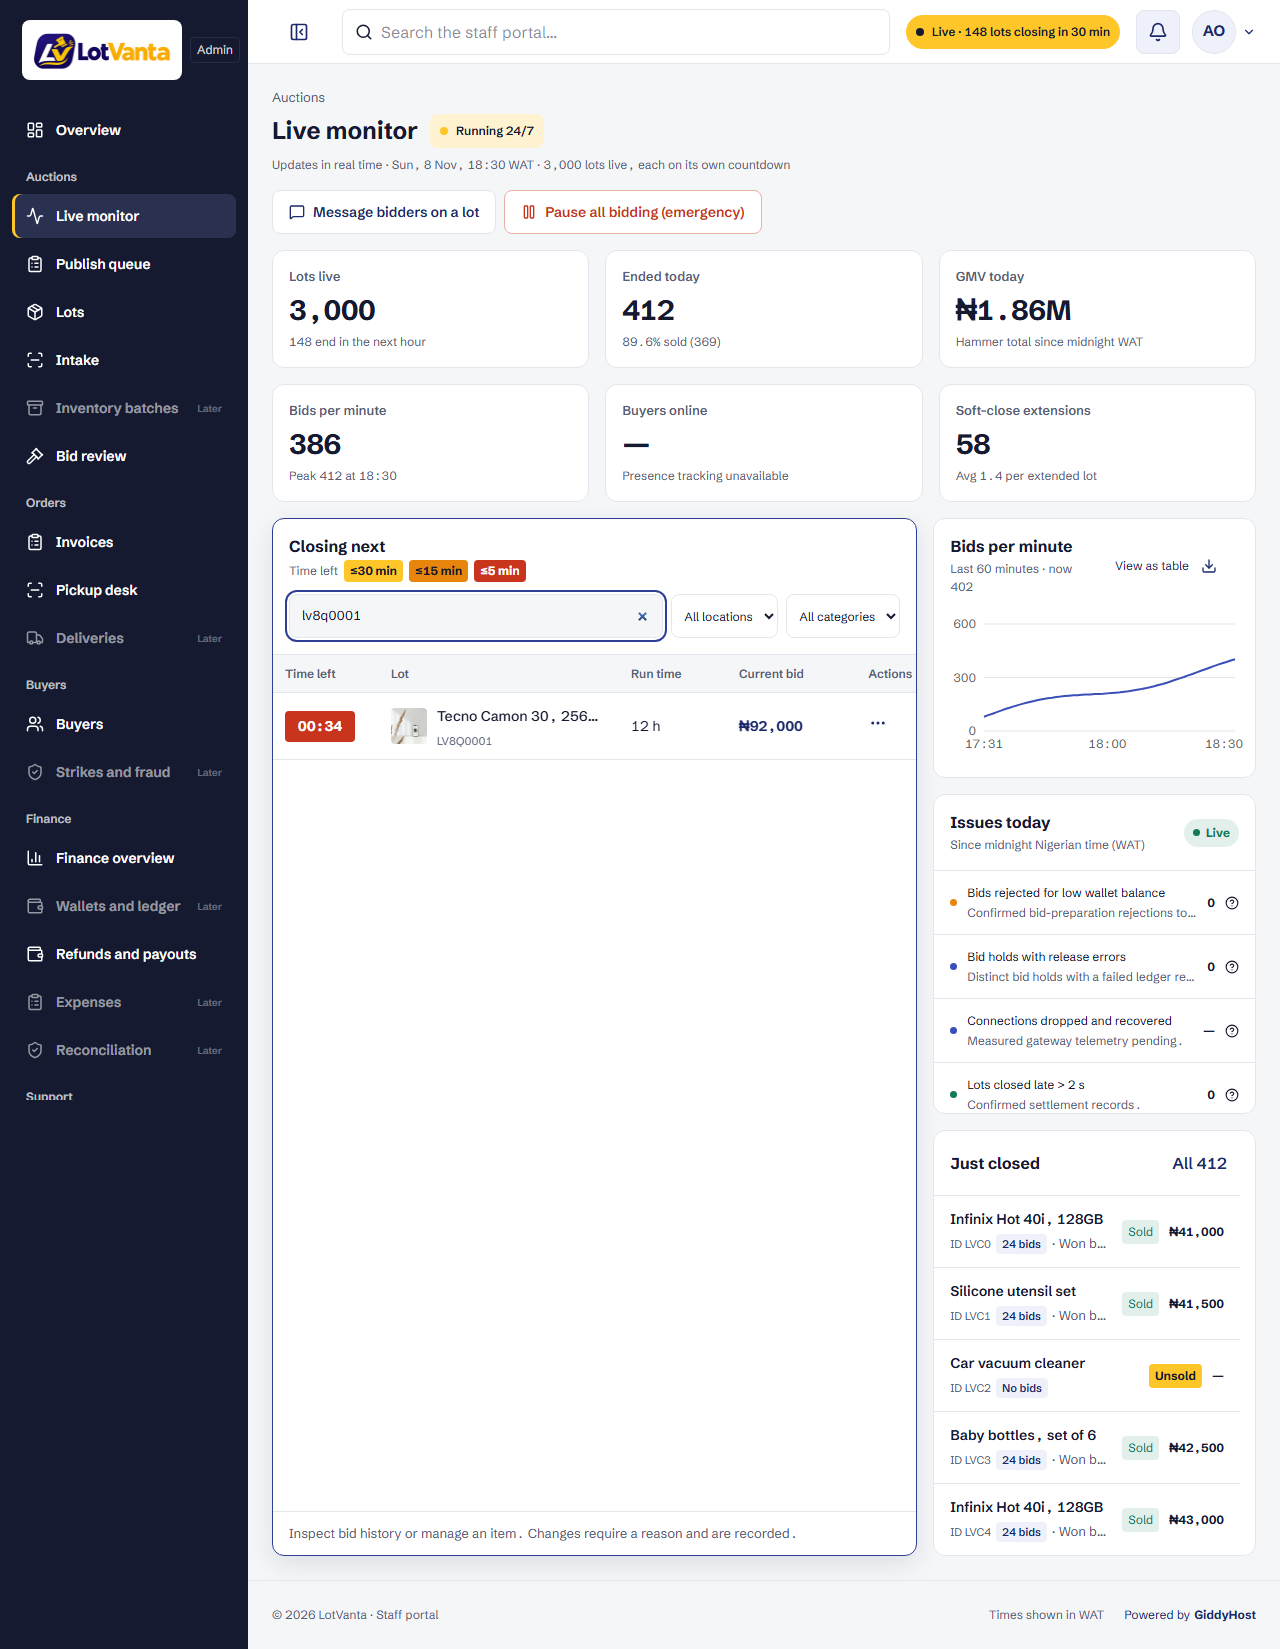
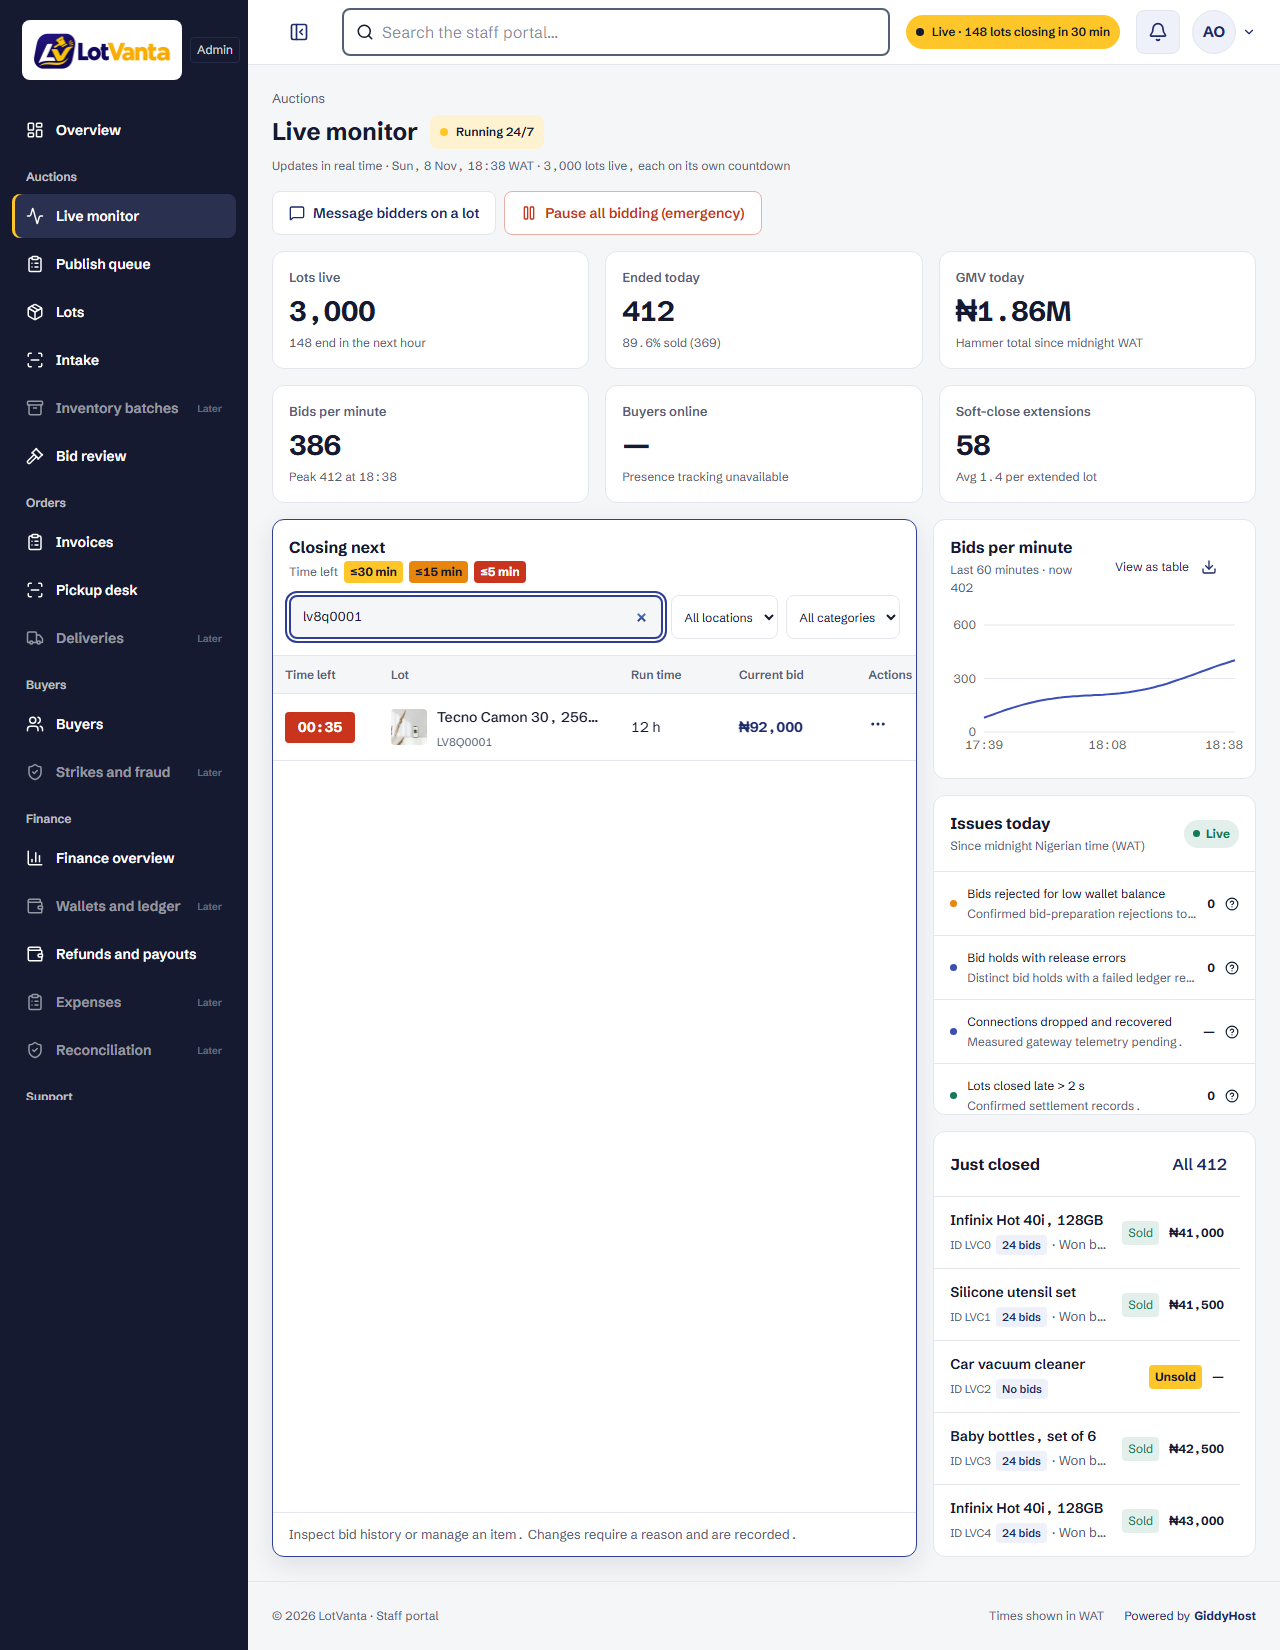
style(admin): strengthen staff search borders

diff --git a/packages/ui/web/staff-dashboard.css b/packages/ui/web/staff-dashboard.css
@@ -1455,10 +1455,13 @@ html[data-staff-reduce-motion='true'] .agn-dialog * {
   flex: 1;
   min-width: 0;
   max-width: 590px;
-  border: 1px solid var(--color-line);
+  border: 2px solid var(--color-slate-600);
   border-radius: var(--radius-control);
   background: var(--color-surface);
   padding: 0 12px;
+}
+.lv-staff-global-search:hover {
+  border-color: var(--color-indigo-700);
 }
 .lv-staff-global-search > svg {
   flex-shrink: 0;
@@ -1473,6 +1476,7 @@ html[data-staff-reduce-motion='true'] .agn-dialog * {
   color: var(--color-ink);
 }
 .lv-staff-global-search:focus-within {
+  border-color: var(--color-indigo-700);
   outline: 2px solid var(--color-indigo-700);
   outline-offset: 2px;
 }

diff --git a/tests/e2e/staff-live-monitor.spec.ts b/tests/e2e/staff-live-monitor.spec.ts
@@ -854,6 +854,14 @@ test('searches closing lots by name and ID as staff type and keeps prices live',
     exact: true,
   });
   const search = page.getByRole('searchbox', { name: 'Search live lots' });
+  await page.mouse.move(0, 0);
+  for (const field of [search, page.locator('.lv-staff-global-search')]) {
+    await expect(field).toHaveCSS('border-width', '2px');
+    await expect(field).toHaveCSS('border-color', 'rgb(85, 96, 116)');
+    await field.hover();
+    await expect(field).toHaveCSS('border-color', 'rgb(46, 63, 148)');
+    await page.mouse.move(0, 0);
+  }
   await search.fill('samsung');
   await expect(
     section

diff --git a/packages/ui/admin/live-monitor.css b/packages/ui/admin/live-monitor.css
@@ -195,7 +195,7 @@
   box-sizing: border-box;
   width: 100%;
   min-height: 44px;
-  border: 1px solid var(--color-line);
+  border: 2px solid var(--color-slate-600);
   border-radius: var(--radius-control);
   background: var(--color-canvas);
   color: var(--color-ink);
@@ -203,7 +203,11 @@
   font: inherit;
   font-size: 13px;
 }
+.lv-monitor-search input:hover {
+  border-color: var(--color-indigo-700);
+}
 .lv-monitor-search input:focus-visible {
+  border-color: var(--color-indigo-700);
   outline: 2px solid var(--color-indigo-700);
   outline-offset: 2px;
 }

diff --git a/docs/TASKS.md b/docs/TASKS.md
@@ -174,6 +174,8 @@ The admin is built in eight smaller tasks. Every one follows `docs/ADMIN_DESIGN.
 
 ### [ ] T15d — Overview dashboards
 
+**Staff search border correction (2026-11-08):** global staff search and Closing next search use visible 2px slate borders with indigo hover/focus states. Focused browser assertions, responsive 360/768/1280 captures, formatting/lint, admin types and production build pass. T15d remains open.
+
 **Closing next live search (2026-11-08):** added a 250ms-debounced name/item-ID search across the complete permission-protected live Redis projection before cursor pagination. Category/location filters combine with search; obsolete requests are discarded and the existing socket/silent refresh continues for matching rows. Responsive search/empty/clear/live-price browser checks, a beyond-200-row paginated API integration test, affected lint/types and admin/API builds pass. T15d remains open.
 
 **Lot provenance and monitor hierarchy (2026-11-08):** Open lot shows the original creation-audit staff name and actual creation date/time in WAT; unrecorded legacy creators stay explicit. Closing next titles link to the permission-protected lot workspace with smaller IDs. Just closed uses larger titles, smaller IDs and compact bid-count badges while preserving five-row panel bounds. Focused provenance/authorization integration, responsive browser checks at 360/768/1280, affected lint/types and API/admin builds pass. T15d remains open.
